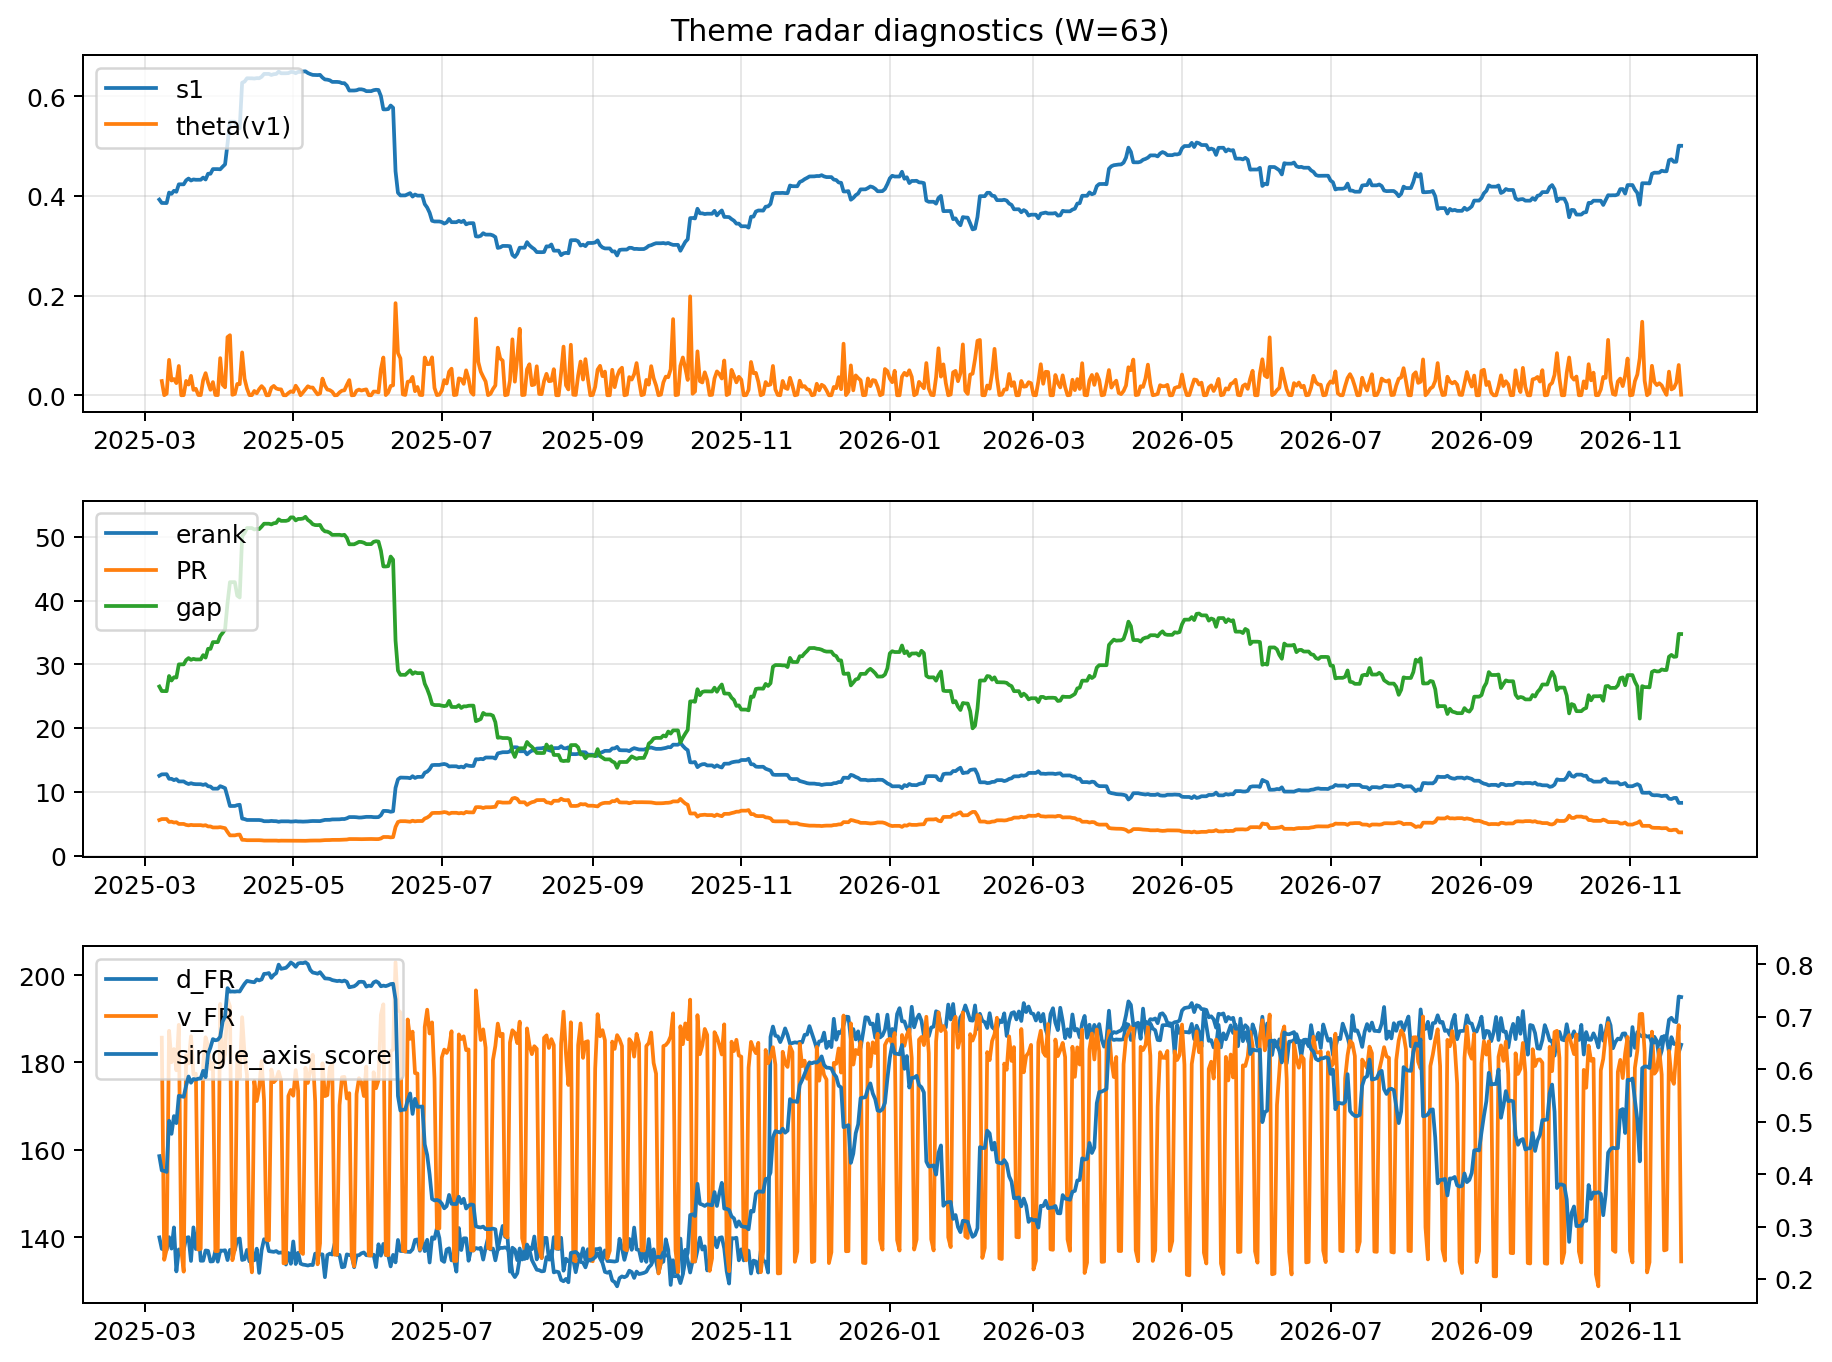
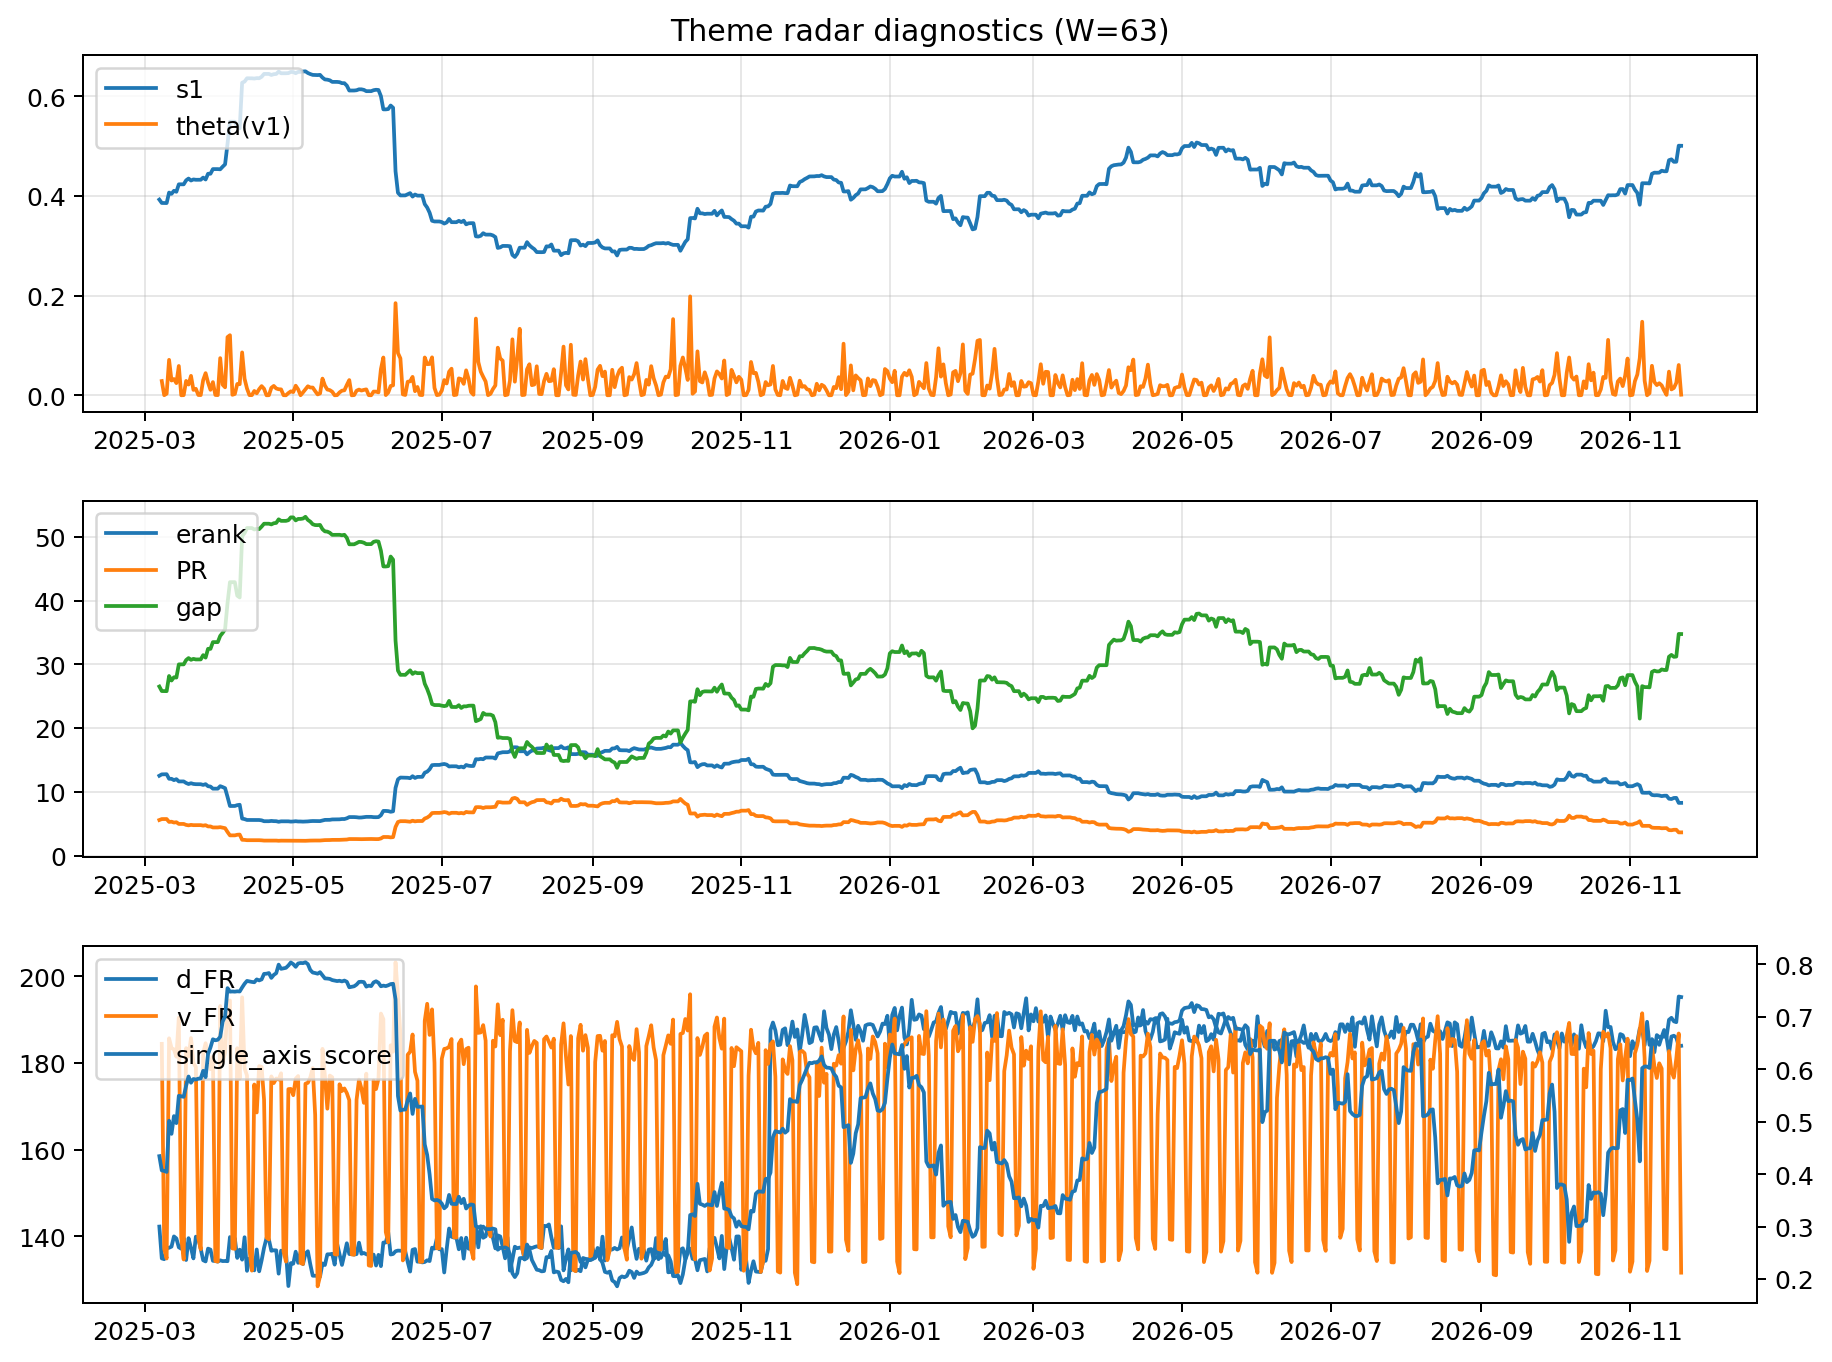
log: 2026-11-22 | sha256:813308f203aa8b83f0bd72d3bf7709b8638a6fcba987ee908b110bea8e02fe6e

diff --git a/logs/2026-11-22.md b/logs/2026-11-22.md
@@ -3,43 +3,43 @@
 ![diagnostic W63](../assets/diagnostic/2026-11-22_W63.png)
 
 ## Leaders (v1) — W=63
-- **Nuclear_Uranium** (0.0807023748790783)
-- Semis (0.0714850005838376)
-- Space (0.0564738342567107)
+- **Nuclear_Uranium** (0.0807023745431399)
+- Semis (0.0714850001127368)
+- Space (0.056473833939213)
 
 ## Challengers — W=63
-**v2:** Rates (0.0978236334359294), Metals (0.077191668830761), Semis (0.0632942415583711)
-**v3:** Rates (0.1063178769429257), MegaCap_AI (0.0896226256423804), Nuclear_Uranium (0.0785785108664629)
+**v2:** Rates (0.0978236338573632), Metals (0.0771916711458438), Semis (0.0632942419085409)
+**v3:** Rates (0.106317880503328), MegaCap_AI (0.0896226273243951), Nuclear_Uranium (0.0785785142513122)
 
 ## Migration (20D slope) — W=63
 **Top risers:**
-- axis_Drones_Autonomy: 0.0004705809905119
-- axis_Software_Cloud: 0.0004217246076416
-- axis_Cyber: 0.0003841152721377
-- axis_Rates: 0.0003359099003439
-- axis_Defense: 0.0003268619676279
-- axis_Sector_Materials: 0.0002319786185136
-- axis_Sector_Comm: 0.0001980298076357
-- axis_Sector_Fin: 0.0001967157790982
-- axis_Sector_Health: 0.0001699207279586
-- axis_Sector_RealEstate: 9.731542395340369e-05
+- axis_Drones_Autonomy: 0.0004705809914184
+- axis_Software_Cloud: 0.0004217246181987
+- axis_Cyber: 0.0003841152881451
+- axis_Rates: 0.0003359105993693
+- axis_Defense: 0.000326861962818
+- axis_Sector_Materials: 0.000231978620724
+- axis_Sector_Comm: 0.0001980298066567
+- axis_Sector_Fin: 0.0001967157781501
+- axis_Sector_Health: 0.0001699207283048
+- axis_Sector_RealEstate: 9.731540984695752e-05
 
 **Top fallers:**
-- axis_DataCenter_Infra: -0.0001475447640614
-- axis_Miners: -0.0001538178753901
-- axis_Space: -0.0001641250169754
-- axis_Credit: -0.0001757246844827
-- axis_Quantum: -0.0002379795524831
-- axis_Sector_Energy: -0.0002437253236296
-- axis_Semis: -0.0002493040055603
-- axis_Sector_ConsStap: -0.0002597481940769
-- axis_Commodities: -0.0002818988430406
-- axis_Metals: -0.0004614228468592
+- axis_DataCenter_Infra: -0.0001475448029707
+- axis_Miners: -0.0001538178819021
+- axis_Space: -0.0001641250284439
+- axis_Credit: -0.0001757253886787
+- axis_Quantum: -0.0002379795443696
+- axis_Sector_Energy: -0.0002437253236796
+- axis_Semis: -0.0002493039950079
+- axis_Sector_ConsStap: -0.0002597481937521
+- axis_Commodities: -0.0002818988424764
+- axis_Metals: -0.0004614228624204
 
 ## Risk line (W=63)
-- s1: 0.5005234589846927
-- theta_v1: 0.0012405427220748
-- v_FR: 134.44421093523286
+- s1: 0.5005234592378759
+- theta_v1: 0.0012405427241331
+- v_FR: 131.6388568137472
 - single_axis_score: 0.7373801916932907
 
 ## Interpretation
@@ -48,7 +48,7 @@
 - Action: Tomorrow watchlist: Drones_Autonomy, Software_Cloud, Cyber, Rates, Defense + v2_top1=Rates
 - Action: Hedge note: normal correlation stability.
 
-- Percentiles (W=63 history): vfr_pct=0.09, theta_pct=0.23, s1_pct=0.88, score_pct=0.89.
+- Percentiles (W=63 history): vfr_pct=0.02, theta_pct=0.23, s1_pct=0.88, score_pct=0.89.
 
 ---
[2 lines of base64/hex data omitted]
